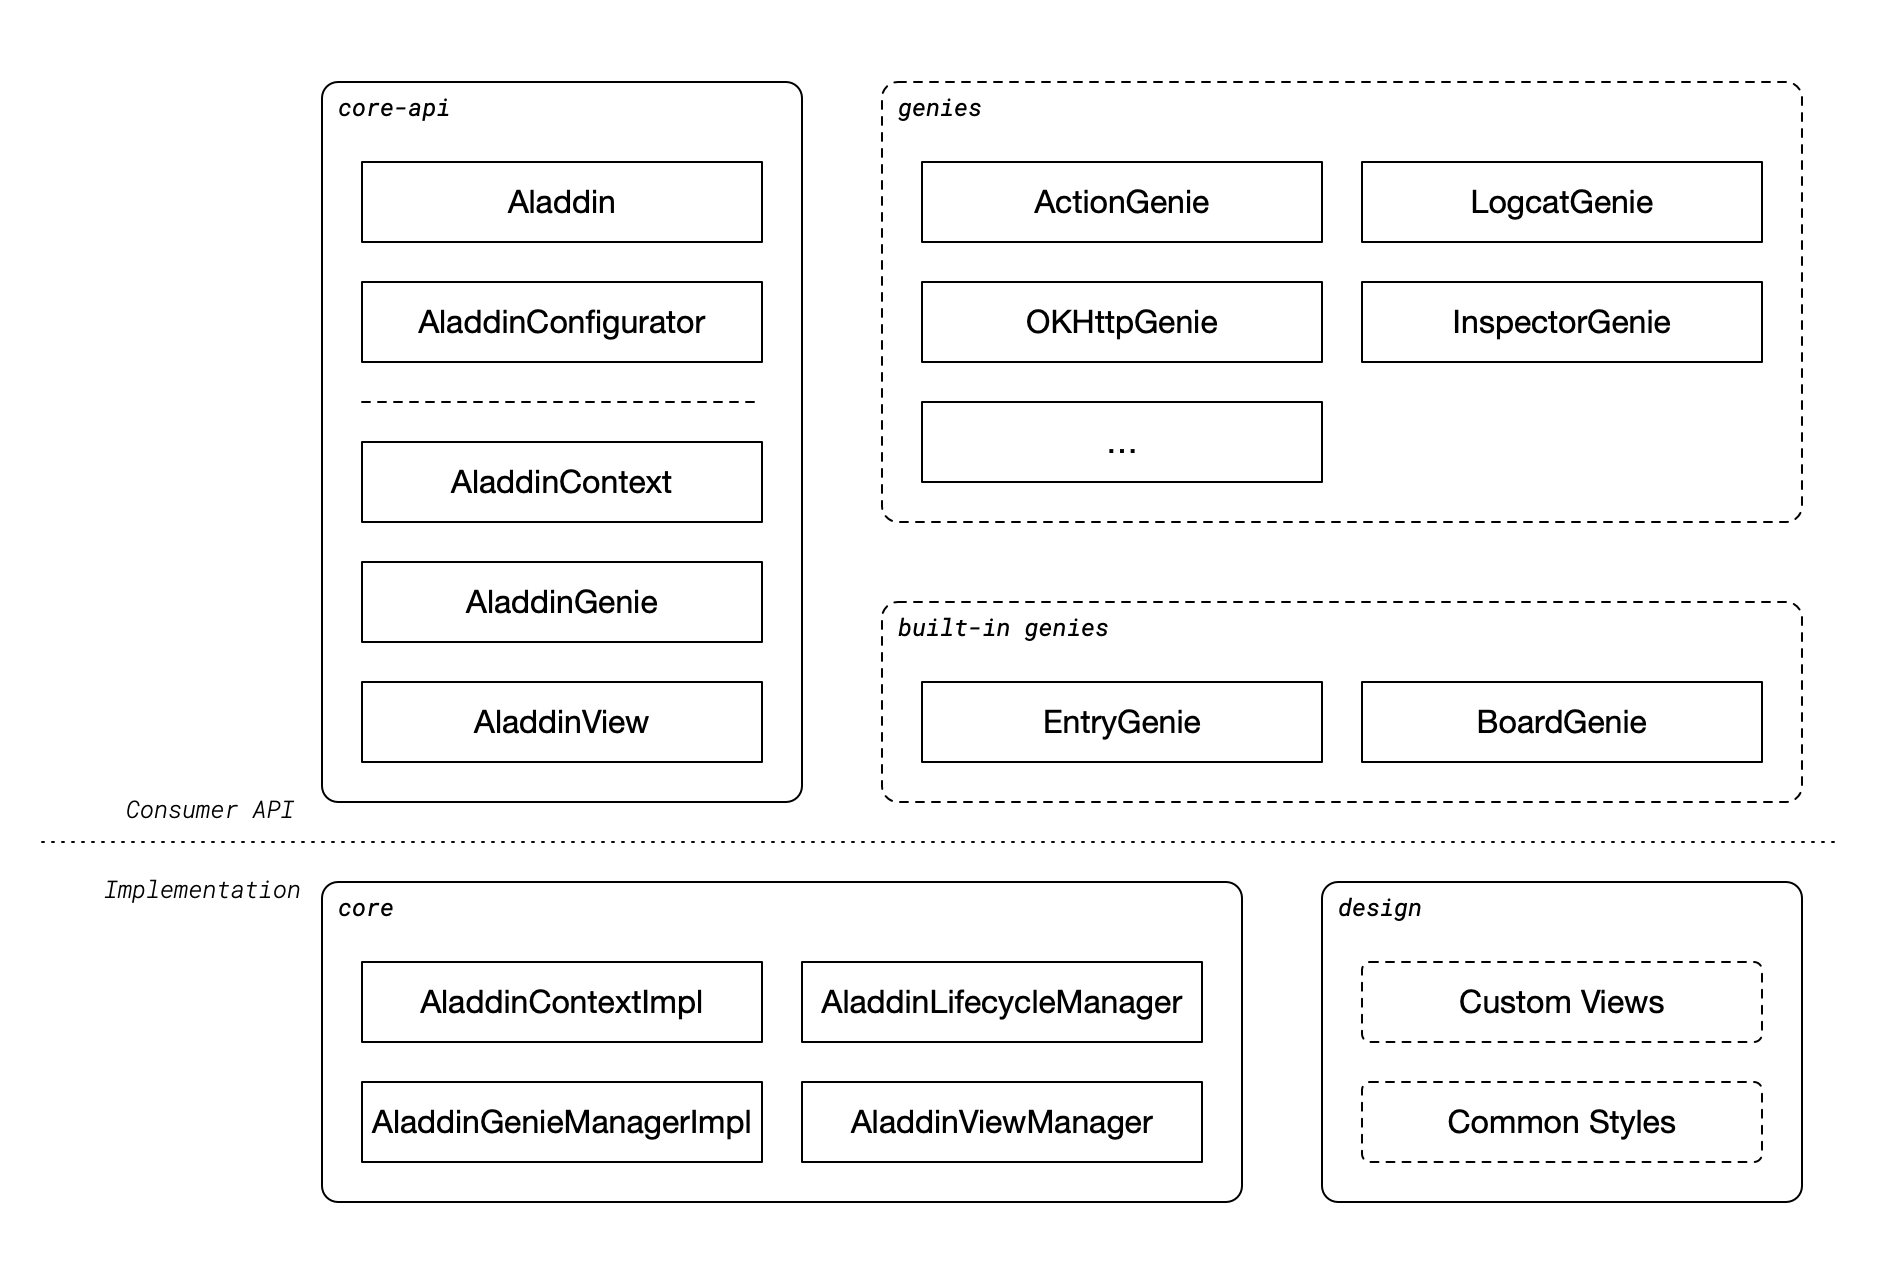
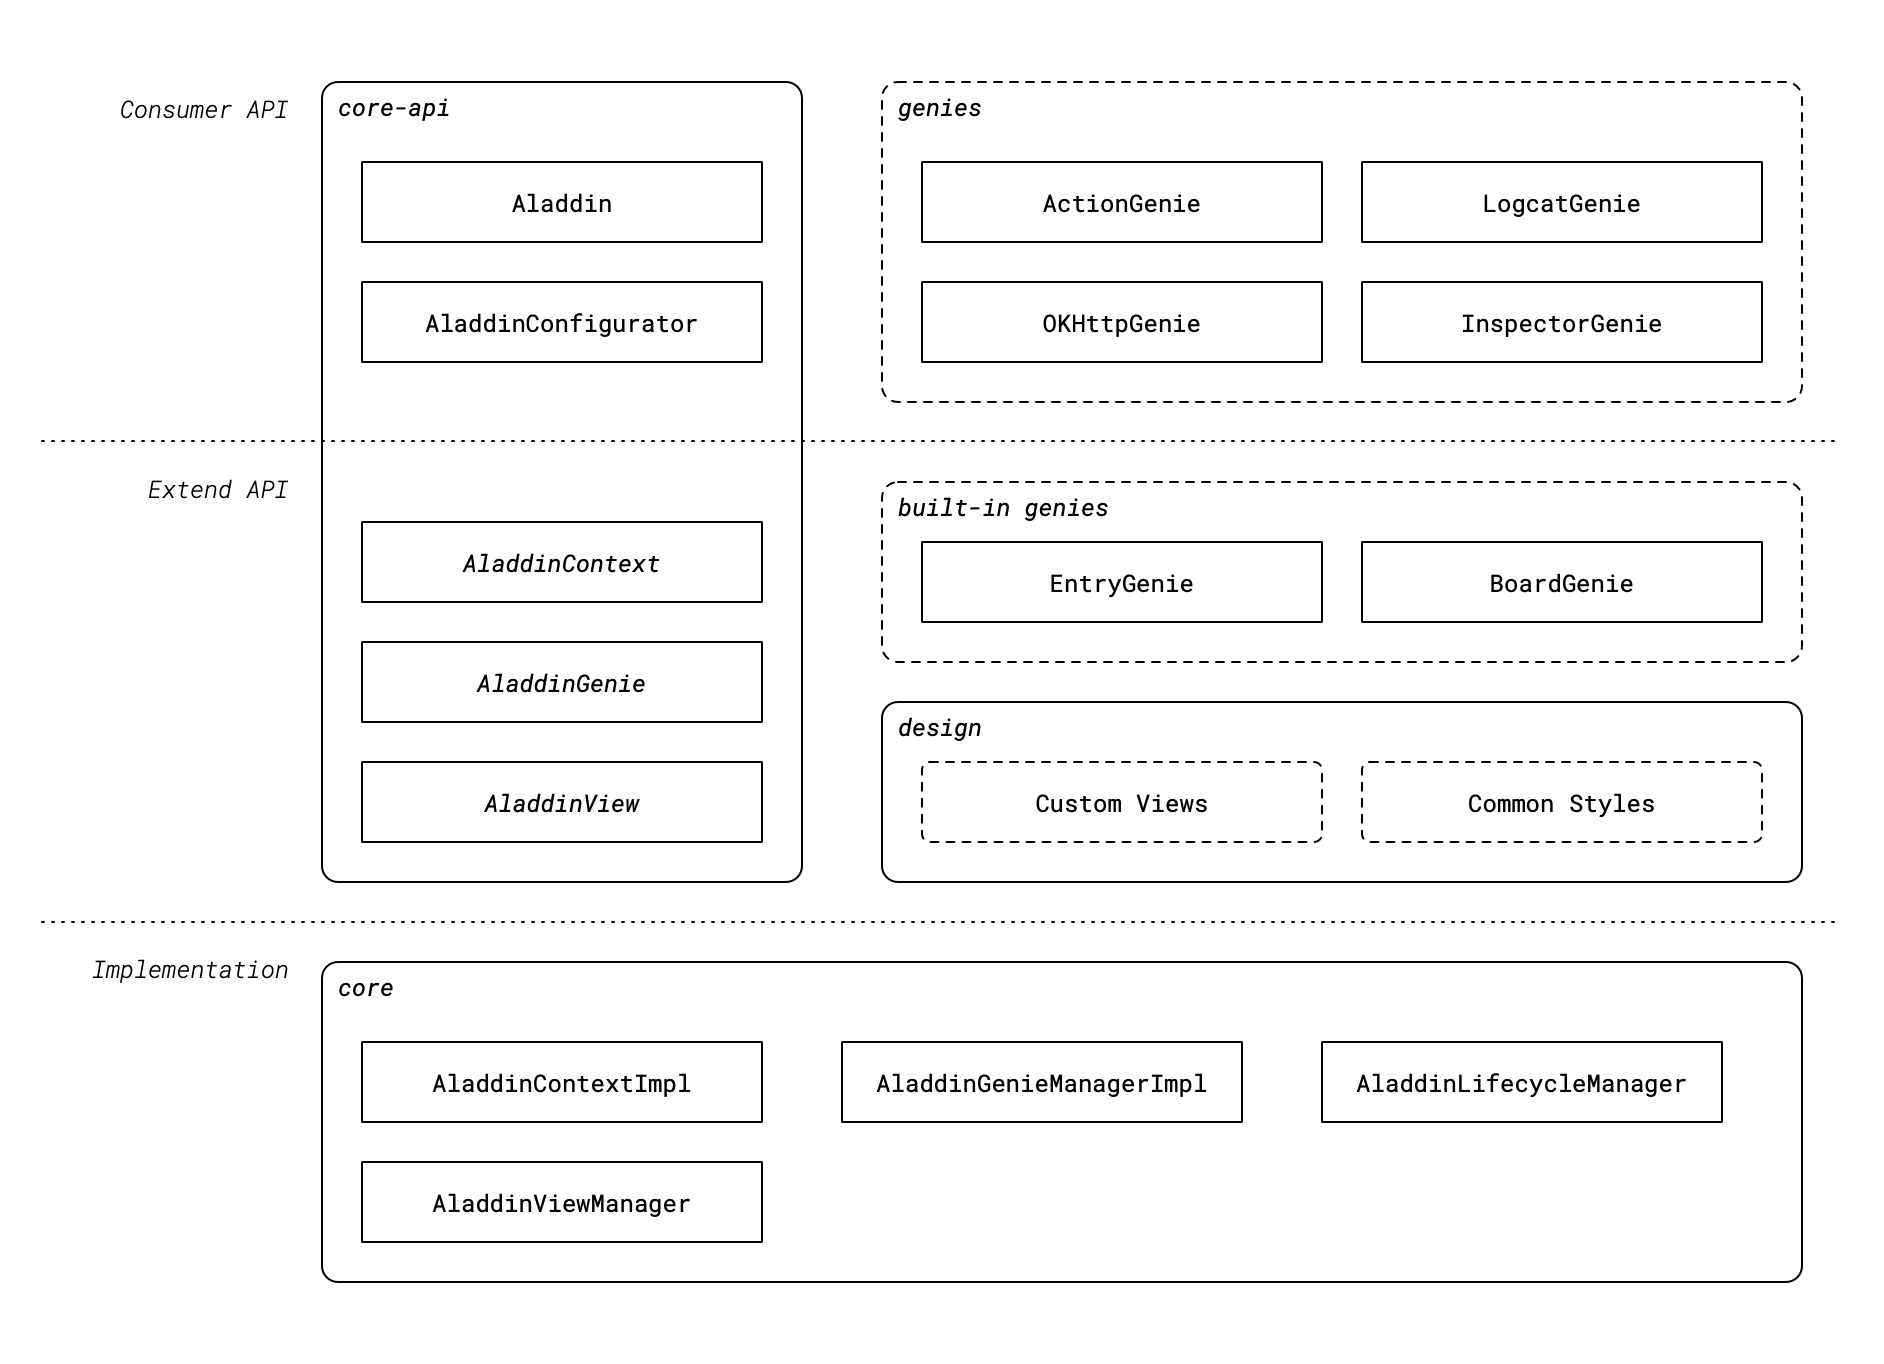
update architecture image

diff --git a/README.md b/README.md
@@ -21,6 +21,9 @@ Here're screenshots of demo application. Consumer can have these features just o
 ### Terms
 
 - **Genie**: Feature unit of Aladdin. For example, `LogcatGenie` provides ability to inspect app's logcat at runtime. Genie can has its own top-level float view or a panel view hosted by `BoardGenie`.
+- **Consumer API** layer: APIs that consumer can use to leverage Aladdin's ability.
+- **Extend API** layer: APIs that consuemr can use to implement customized `AladdinGenie`.
+- **Implementation** layer: Implementation of Aladdin framework. 
 
 ### Components Explains
 

diff --git a/README_ZH.md b/README_ZH.md
@@ -19,6 +19,9 @@ Aladdin不仅是一个可以帮Android开发者更高效地调试App的框架。
 ### Terms
 
 - **Genie**: Aladdin的功能单元。例如：`LogcatGenie`提供了在运行时检视App的logcat的能力。genie可以由独立的控件承载，也可以由BoardGenie实现的面板承载，作为其中的一个标签卡。
+- **Consumer API** layer: 用户可以直接使用的API。
+- **Extend API** layer: 用户实现`AladdinGenie`扩展Aladdin能力用到的API。
+- **Implementation** layer: Aladdin框架的实现。
 
 ### Components Explains
 
